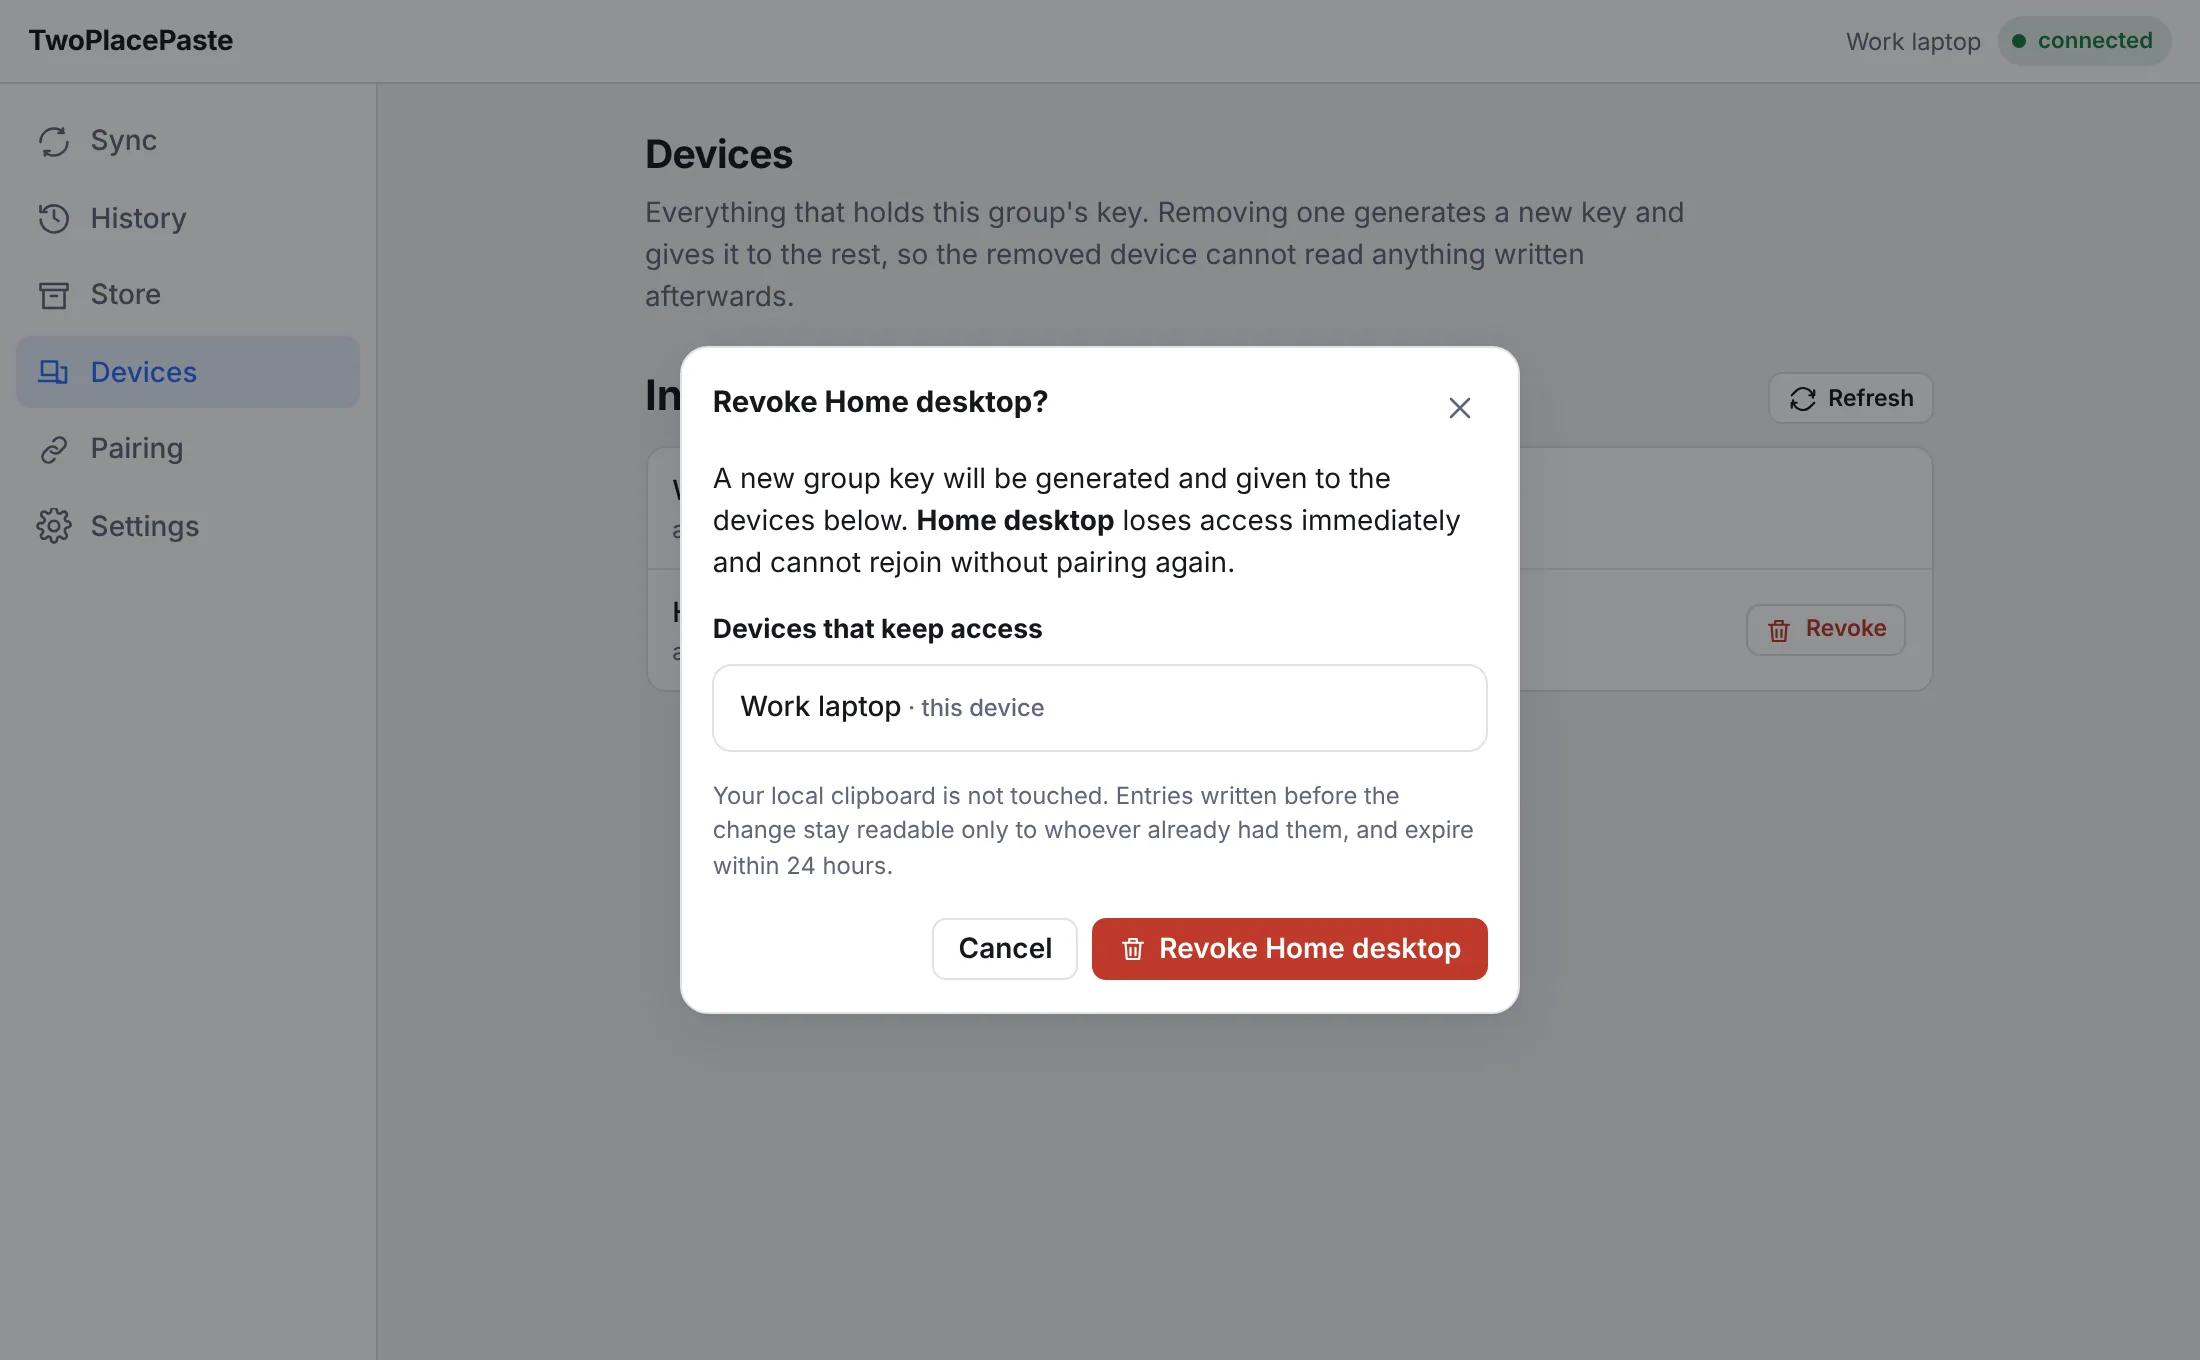
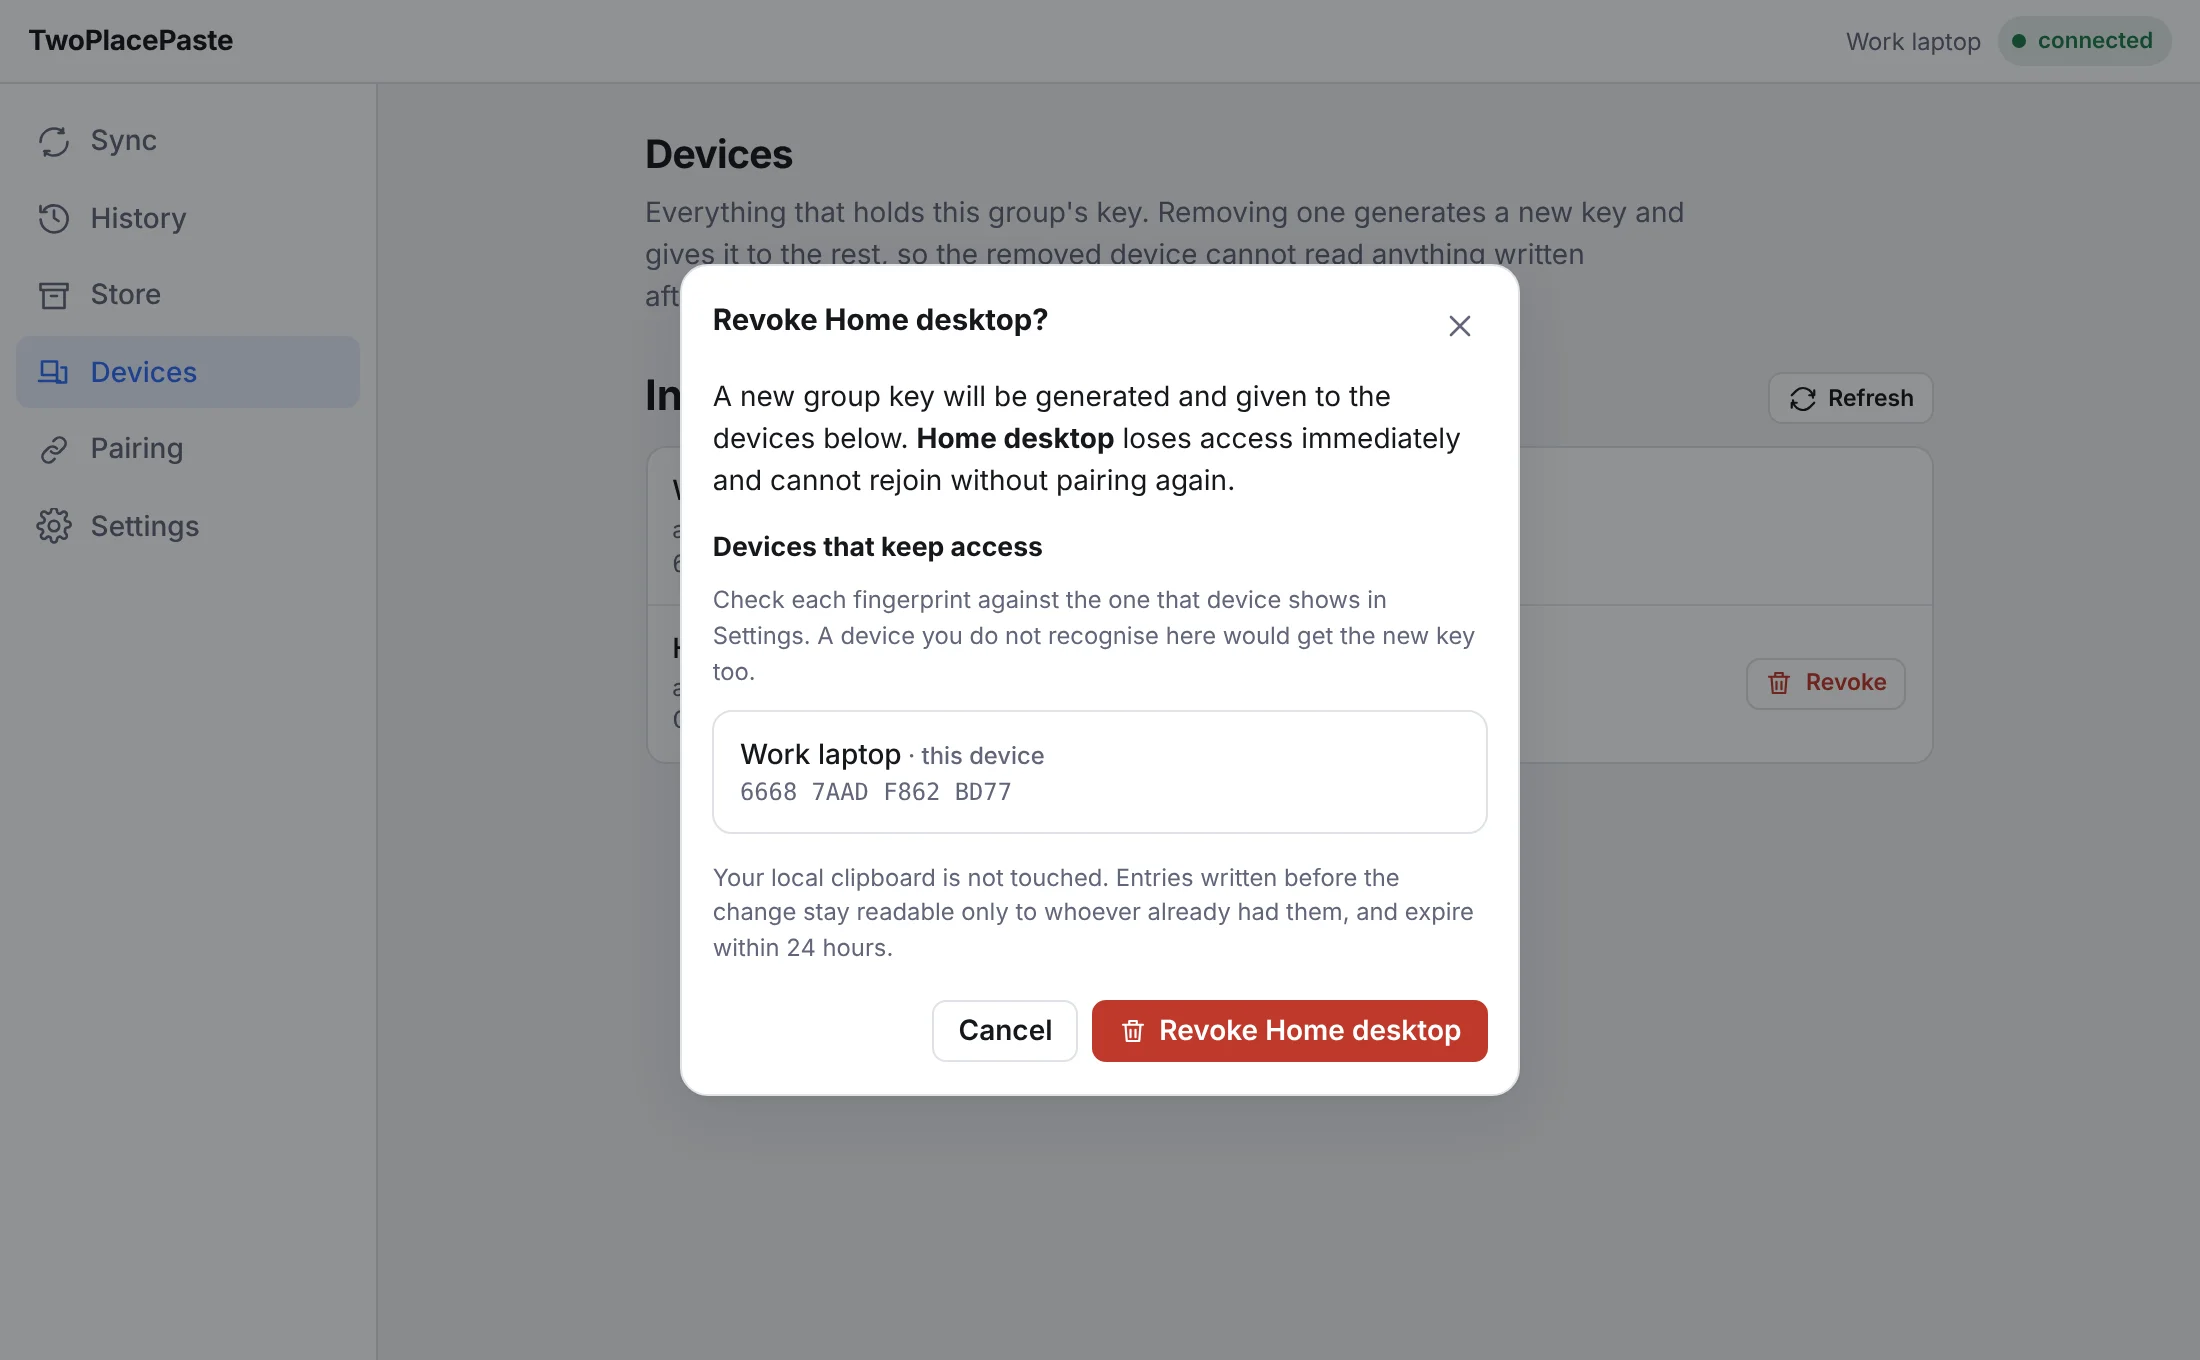
Document the join confirmation and the key check
- Add a device: the member is asked to check the new device's
  fingerprint before it gets the key, with a screenshot of the dialog.
- Devices: every device shows its fingerprint, the revoke dialog lists
  them, and each remaining device checks the new key.
- Settings: this device's fingerprint.
- Troubleshooting: what a refused key means and how to recover.
- Security: adding a device, the key check, and what a hostile relay
  can still do.
- Retake the desktop Devices, revoke, pairing code and Settings
  screenshots, from the built UI against a mocked local API.

Claude-Session: https://claude.ai/code/session_01883ho3VieWfSCRWEa5iBK9

Changed region(s): [[0.3091, 0.1853, 0.7109, 0.8029], [0.8036, 0.4941, 0.8655, 0.525], [0.8036, 0.4324, 0.8345, 0.4632]]

diff --git a/docs/site/src/content/docs/security.md b/docs/site/src/content/docs/security.md
@@ -41,6 +41,14 @@ nothing about the entry.
 On the device, keys are kept in the **macOS login keychain** or a file sealed with **Windows
 DPAPI** to your user account.
 
+## Adding a device
+
+The device that holds the group key hands it over, wrapped to the new device's public key. That key
+travels through the relay, so before anything is handed over the app shows the new device's
+**fingerprint** and asks you to compare it with what the new device shows. A relay that put a key of
+its own in its place would show a different fingerprint. The app also ignores a join for a code it
+did not show, or one already used.
+
 ## Revocation
 
 Revoking a device creates a new group key (a new *epoch*) and wraps it only to the remaining
@@ -51,6 +59,24 @@ Store items are different: they do not expire, and a rekey does not re-encrypt t
 device held the keys to every item saved before the revocation, and could have downloaded them
 while it was still a member. It cannot reach anything saved afterwards. If the store held a secret
 that the lost device must not keep, change the secret itself.
+
+The revoke dialog lists the devices that will get the new key, each with its fingerprint: the list
+comes from the relay, and the fingerprints are how you check it.
+
+Every remaining device checks the new key before using it. Each key change carries a *store link*
+that only a holder of the previous key can make, and a device accepts a new key only if the links
+lead back to the key it already has. So the relay cannot move your devices onto a key it chose.
+
+## What a hostile relay can still do
+
+The design assumes the relay may be run by someone you do not fully trust. Even so:
+
+- It can **drop or withhold** entries and keys. It cannot read or forge them.
+- A **newly joining device** cannot tell who handed it its first key. The device already in the
+  group is protected by the fingerprint check; the new one relies on the pairing code reaching it
+  directly.
+- A **revoked device working with the relay** could forge a key change for the devices it was
+  removed from. They would stop syncing with the device that removed it, which is how it shows.
 
 ## The desktop app's local page
 
